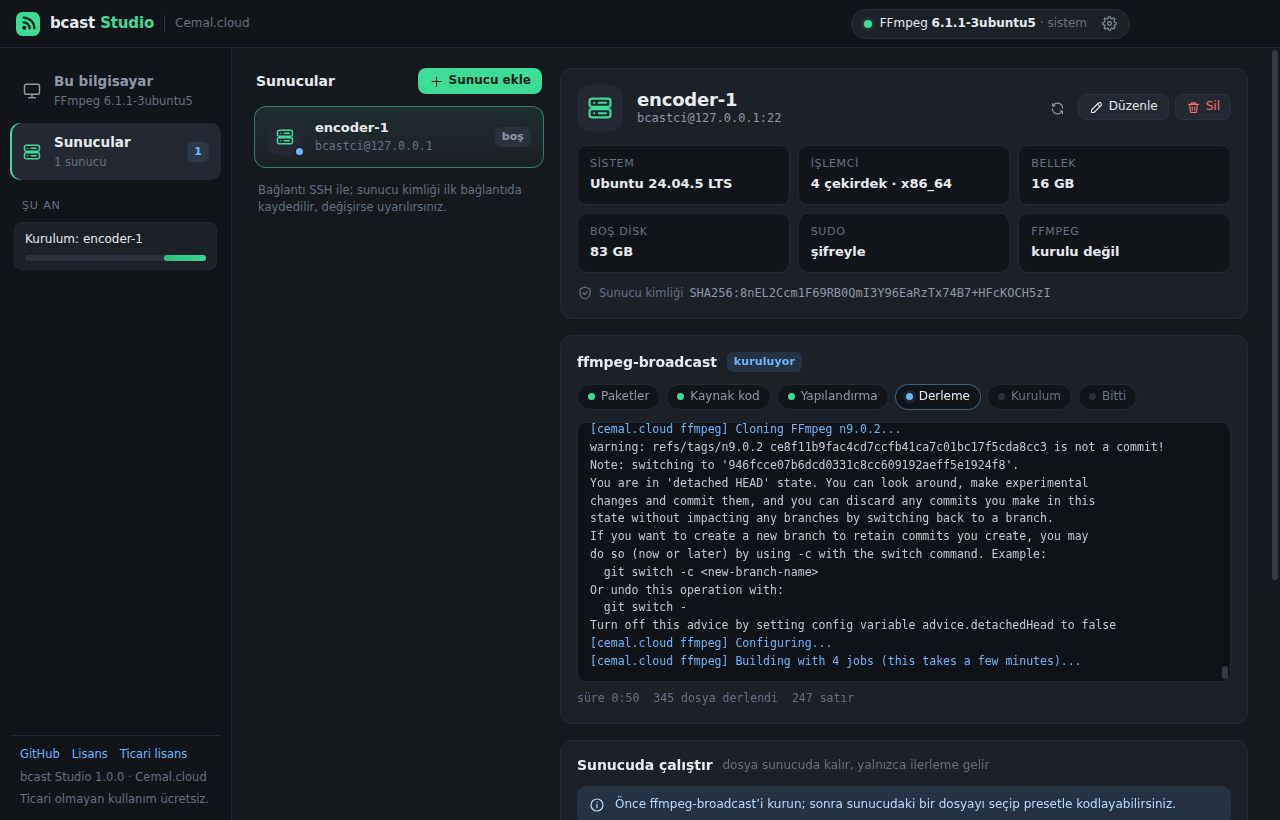
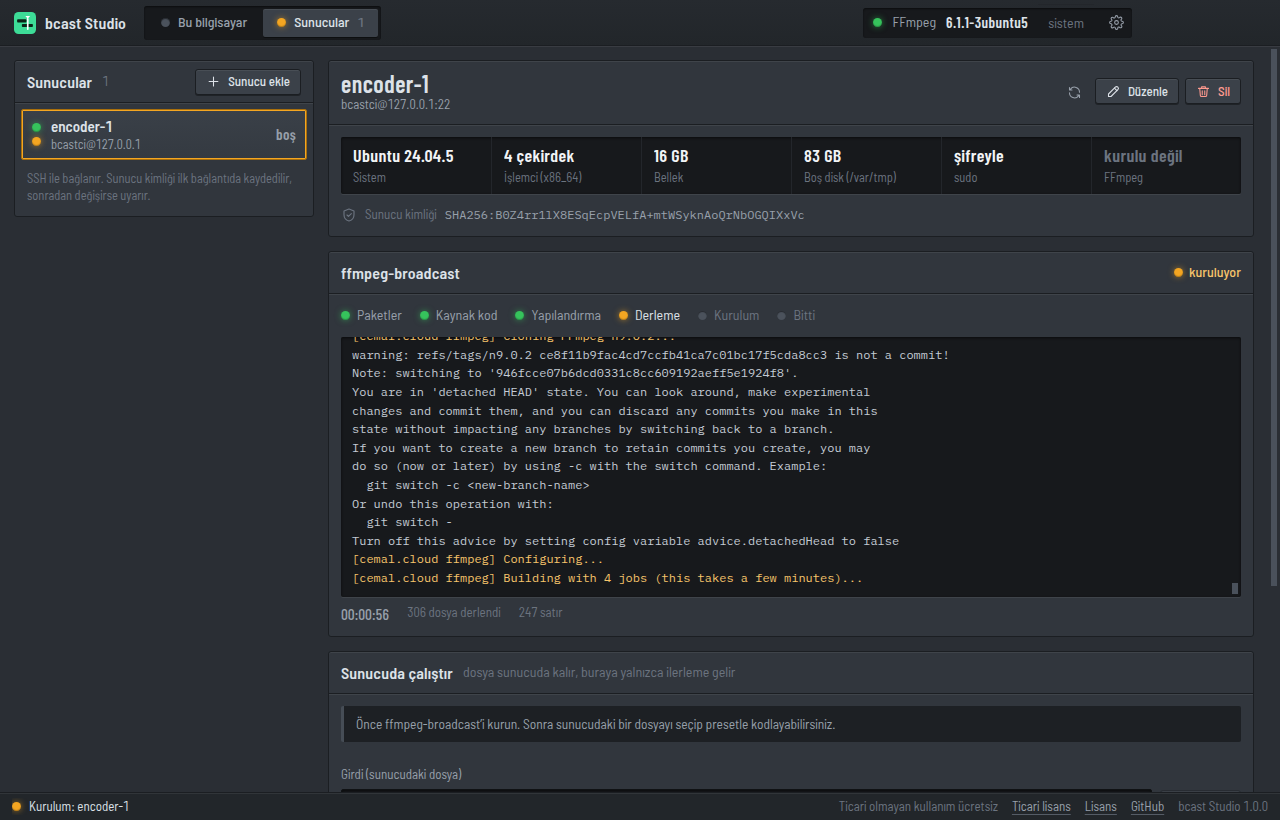
docs: new bcast Studio screenshots; studio 1.1.0

diff --git a/README.md b/README.md
@@ -206,7 +206,7 @@ basar, yazılan dosyaları ffprobe ile kontrol eder):
 | | |
 |---|---|
 | Windows ve macOS | Paketlenmiş uygulama açıldı, FFmpeg uygulamanın içinden indirildi (4 saniye), 19 presetin hepsi destekleniyor. 3 kaynak eklendi, 7 iş kuyrukta çalıştı: XDCAM HD422 1080i TFF ve 4 mono ses track'i, BWF -23 LUFS, 4 kademeli HLS. Var olan çıktının üzerine yazma reddedildi, iptal yarım dosya bırakmadı. |
-| Sunucu | Linux'ta uygulama bir SSH sunucusunu IP ile ekledi (sudo şifreli), FFmpeg'i orada kaynaktan derleyip kurdu (4 çekirdekte 2.7 dakika, 1005 dosya), sunucudaki dosyayı tarayıcıdan seçip `dvb-h264-1080i25` çalıştırdı. Çıktı H.264 1080i TFF. Değişen sunucu kimliği ve yanlış şifre de ayrıca test edildi. |
+| Sunucu | Linux'ta uygulama bir SSH sunucusunu IP ile ekledi (sudo şifreli), FFmpeg'i orada kaynaktan derleyip kurdu (4 çekirdekte yaklaşık 3 dakika, 1005 dosya), sunucudaki dosyayı tarayıcıdan seçip `dvb-h264-1080i25` çalıştırdı. Çıktı H.264 1080i TFF. Değişen sunucu kimliği ve yanlış şifre de ayrıca test edildi. |
 | Motor | 19 preset x 7 kaynak x 4 seçenek: 532 durumda bash `bcast` ile bayt bayt aynı komut. |
 
 Dürüst not: testler üretilmiş renk barları ve tonlarla yapılıyor, gerçek bir playout sunucusunda kabul testi
@@ -247,6 +247,6 @@ ladder, web / proxy MP4 and BWF R128.
   Passwords are kept in the macOS Keychain / Windows DPAPI. Unsigned builds on the Releases page.
 - **Tested:** every commit builds FFmpeg from source and runs 59 checks; every preset is encoded and verified with ffprobe.
   The app is driven like a user on Windows, macOS and Linux (FFmpeg downloaded from the app, 7 jobs verified with
-  ffprobe, a server added by IP and FFmpeg built there in 2.7 min), and its JS engine builds byte-for-byte the same
+  ffprobe, a server added by IP and FFmpeg built there in about 3 min), and its JS engine builds byte-for-byte the same
   command as bash `bcast` in 532 cases. Synthetic test signals only; no playout-server acceptance test; NVENC not covered.
 - **License:** scripts PolyForm Noncommercial 1.0.0 (commercial license: cemaldemirci0034@gmail.com); the resulting FFmpeg binary is GPL v2+ (x264 / x265).
